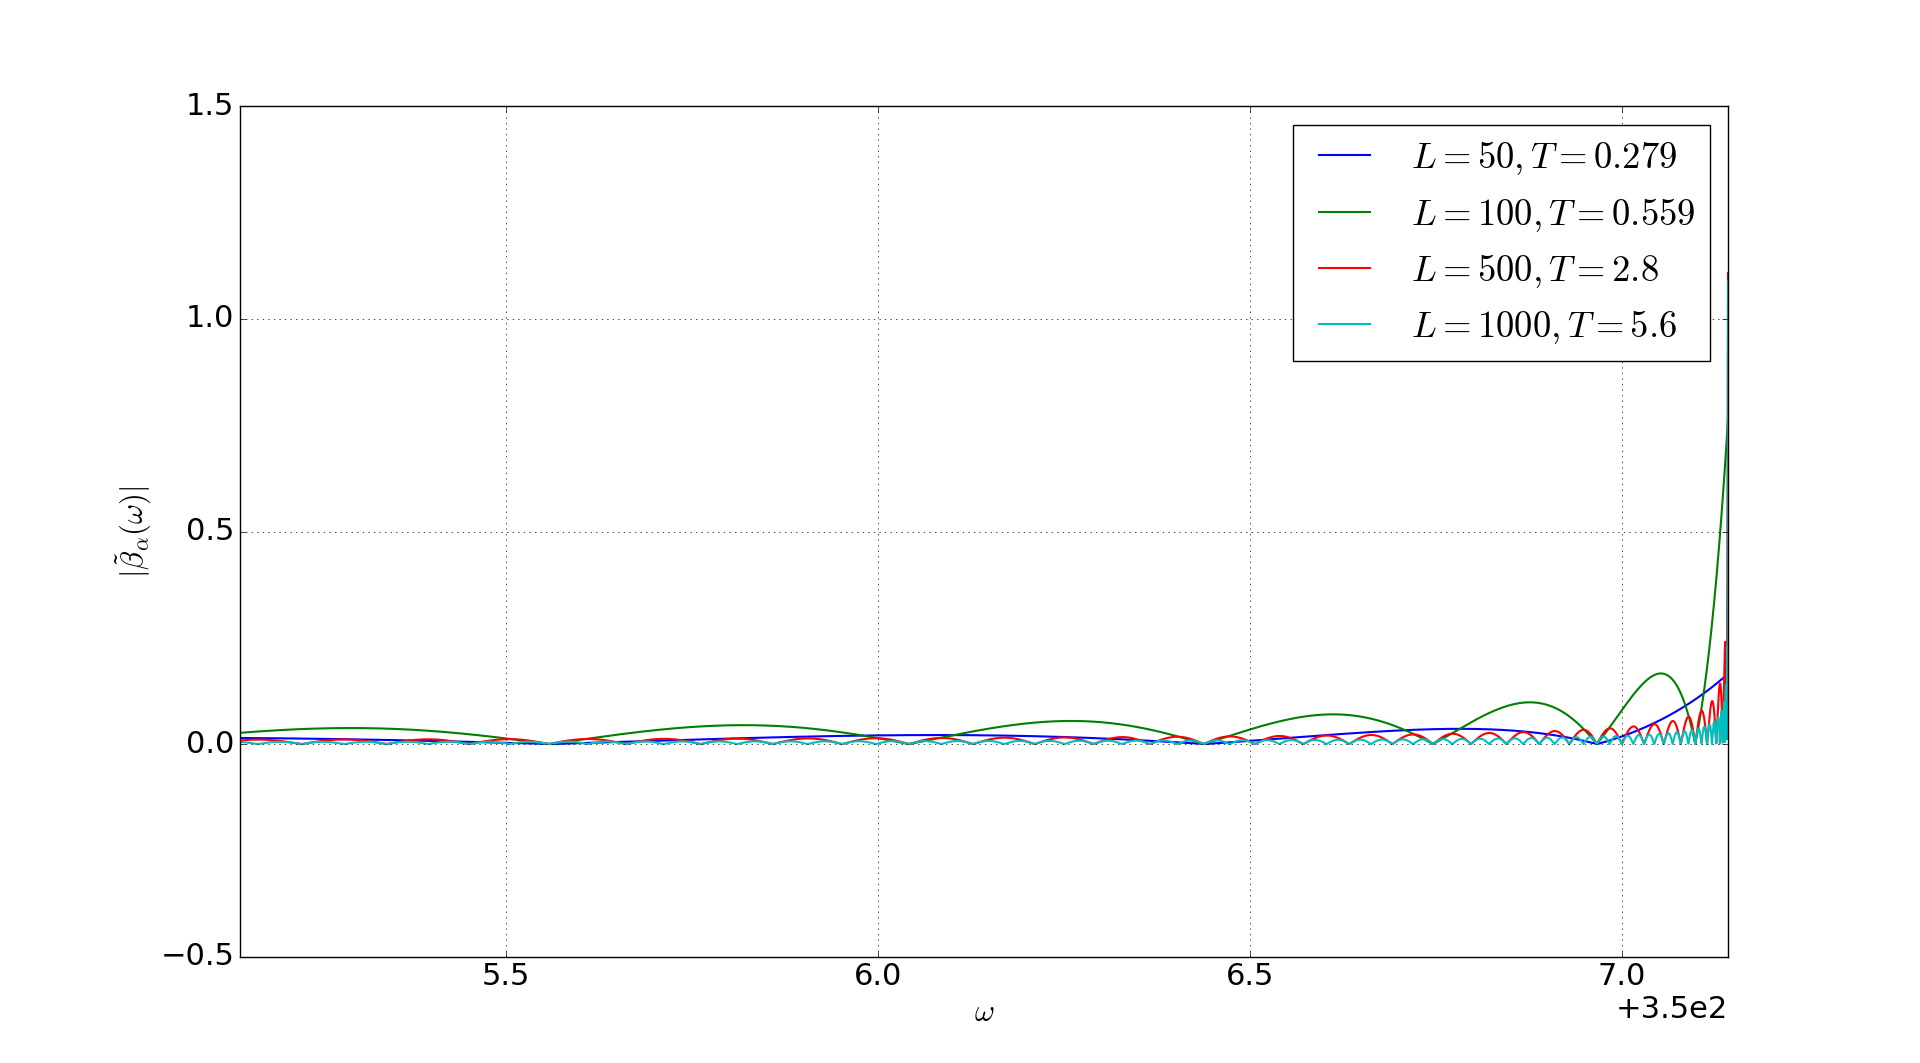
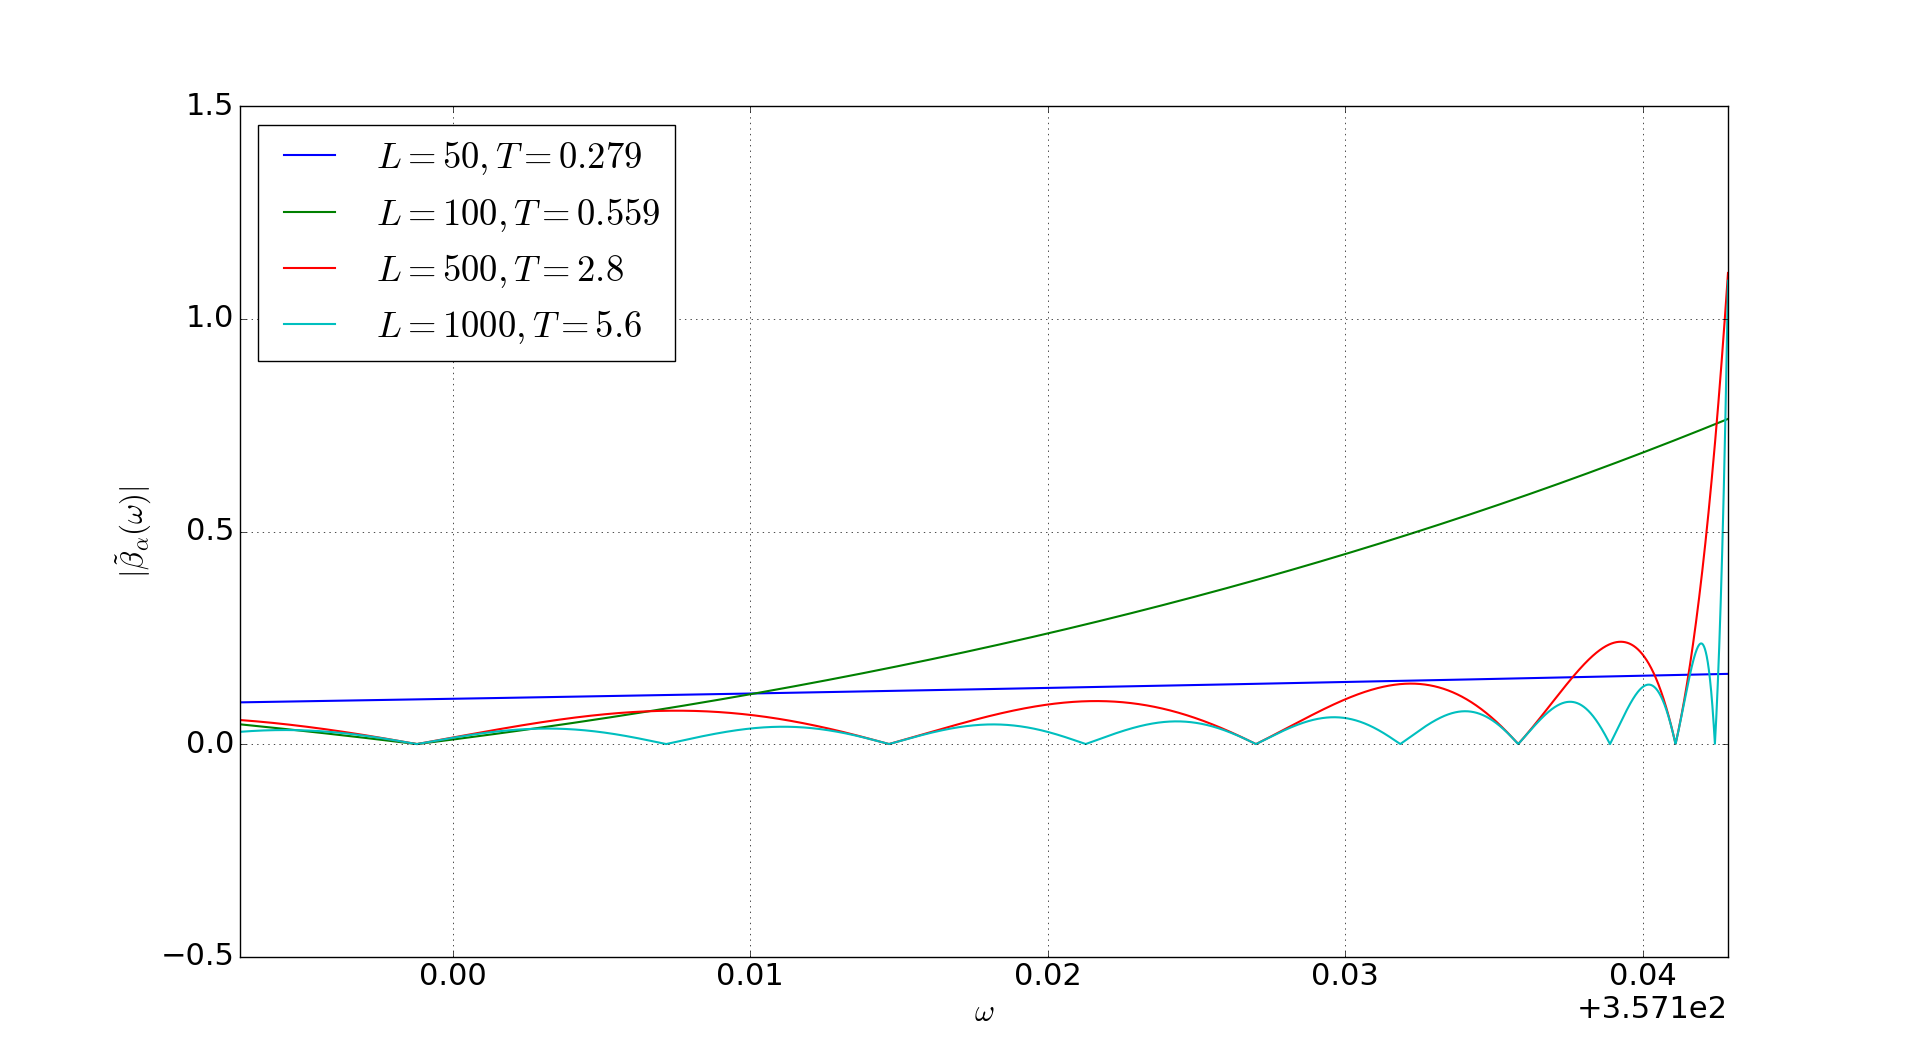
Updated Figures 3 and 6 (Fourier method)

diff --git a/fourier_plots.py b/fourier_plots.py
@@ -14,16 +14,16 @@ om_end = 2/tau
 
 for om_min, om_max in [(3, 6), (12, 14)]:
     chi = indicator(om_min, om_max)
-    # title = r"Inverse Fourier transform method, $[\omega_{\min}, \omega_{\max}] = [" + str(om_min) + ", " + str(om_max) + "]$"
-    title = ""
-    ax, ax2, ax3 = prepare_plots(0, om_end, 0, 40, om_end-2, om_end, title=title, fontsize=22)
+    title = r"Inverse Fourier transform method, $[\omega_{\min}, \omega_{\max}] = [" + str(om_min) + ", " + str(om_max) + "]$"
+    # title = ""
+    ax, ax2, ax3 = prepare_plots(0, om_end, 0, 40, om_end-0.05, om_end, title=title, fontsize=22)
 
     for L in (50, 100, 500, 1000):
         T = tau*L
         alpha = fourier_indicator(om_min, om_max, T)
         plot_beta(alpha, L, tau, 0, om_end, ax, label=f"$L = {L}, T = {str(T)[0:5]}$")
         plot_beta(alpha, L, tau, 0, 40, ax2, label=f"$L = {L}, T = {str(T)[0:5]}$")
-        plot_beta(alpha, L, tau, om_end-2, om_end, ax3, label=f"$L = {L}, T = {str(T)[0:5]}$")
+        plot_beta(alpha, L, tau, om_end-0.05, om_end, ax3, label=f"$L = {L}, T = {str(T)[0:5]}$")
     
     # ax.plot(x:=np.linspace(0, om_end, num=10000), list(map(chi, x)), "--", color="black", label=r"$\chi_{[\omega_{\min}, \omega_{\max}]}$")
     ax2.plot(x:=np.linspace(0, 40, num=10000), list(map(chi, x)), "--", color="black", label=r"$\chi_{[\omega_{\min}, \omega_{\max}]}$")
@@ -31,6 +31,6 @@ for om_min, om_max in [(3, 6), (12, 14)]:
     
     ax.legend()
     ax2.legend()
-    ax3.legend()
+    ax3.legend(loc='upper left')
 plt.show()
 
